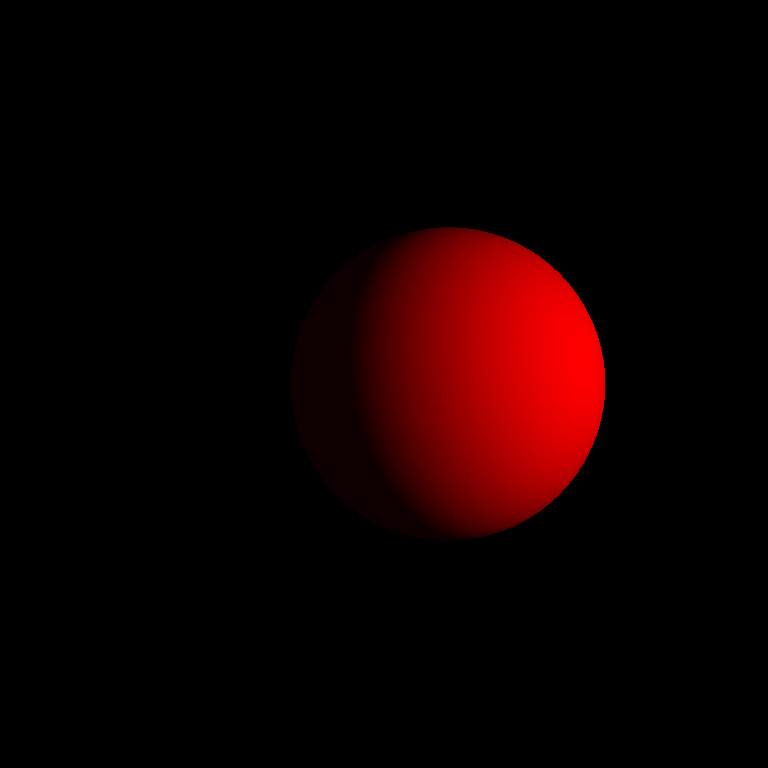
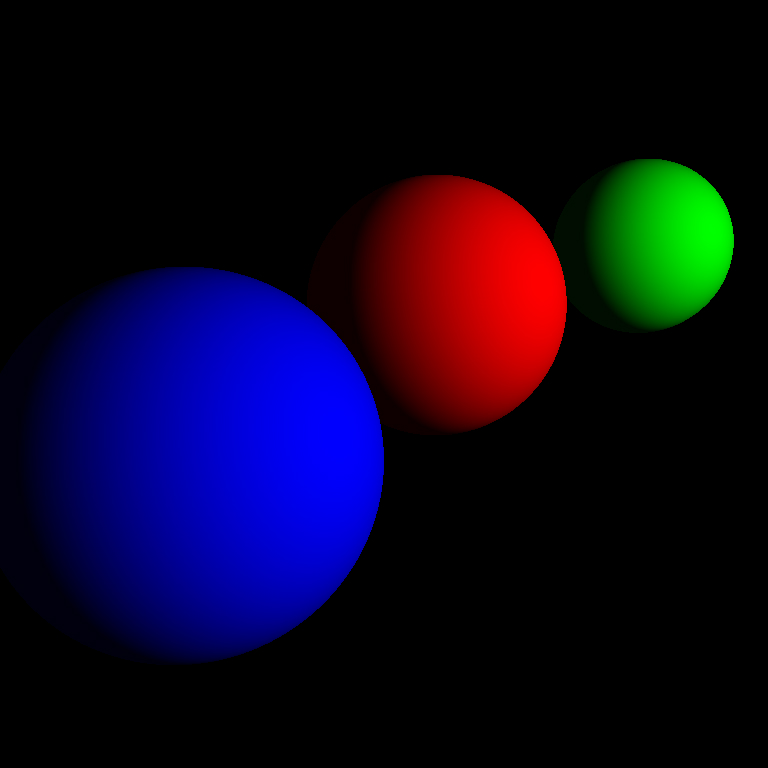
Multiple spheres on GPU
Added: Sphere UBO
Added: Spheres total uniform
Added: Surface struct to render colors (GPU)
Added: Sphere Surface (GPU)
Added: Surface Union (GPU)

diff --git a/source/render.cpp b/source/render.cpp
@@ -36,12 +36,23 @@ namespace render {
     GLuint RBO, FBO;
     static void genbuffers(const uint width, const uint height);
 
+    GLuint SphereUBO;
+
     namespace shader {
         GLuint program;
         static GLuint load(const char *path, GLenum type);
         static GLuint link(GLuint vertex, GLuint fragment);
         static void log(GLuint shader, GLenum status, GLenum type = 0);
     };
+
+    // Plain structs to store scene in GPU
+    namespace GPUbody {
+        struct Sphere {
+            float position[4];
+            float radius[4];
+            float color[4];
+        };
+    }
 }
 
 ///////////////////////////////////////////
@@ -249,6 +260,7 @@ void render::setup(const uint width, const uint height) {
     /// Link program ///
     render::shader::program = render::shader::link(vertex, fragment);
     render::shader::log(render::shader::program, GL_LINK_STATUS);
+    glUseProgram(render::shader::program);
 
     /// Generate buffers ///
     render::genbuffers(width, height);
@@ -267,6 +279,31 @@ void render::push(void) {
     };
 
     glBufferData(GL_ARRAY_BUFFER, sizeof(vertices), vertices, GL_STATIC_DRAW);
+
+    /// Body UBOs ///
+    constexpr int sphereTotal = 3;
+
+    GLuint location = glGetUniformLocation(render::shader::program, "sphereTotal");
+    glUniform1i(location, sphereTotal);
+
+    render::GPUbody::Sphere sphere[sphereTotal] = {
+        { { 2.0f, 3.0f, 30.0f, 1.0f }, { 5.0f }, { 1.0f, 0.0f, 0.0f, 1.0f } },
+        { { 15.0f, 8.0f, 45.0f, 1.0f }, { 5.0f }, { 0.0f, 1.0f, 0.0f, 1.0f } },
+        { {-5.0f, -2.0f, 20.0f, 5.0f }, { 5.0f }, { 0.0f, 0.0f, 1.0f, 1.0f } },
+    };
+
+    glGenBuffers(1, &render::SphereUBO);
+    glBindBuffer(GL_UNIFORM_BUFFER, render::SphereUBO);
+    glBufferData(GL_UNIFORM_BUFFER, sizeof(sphere), NULL, GL_STATIC_DRAW);
+    glBindBuffer(GL_UNIFORM_BUFFER, 0);
+
+    GLuint blockIndex = glGetUniformBlockIndex(render::shader::program, "Spheres");
+    glUniformBlockBinding(render::shader::program, blockIndex, 0);
+    glBindBufferRange(GL_UNIFORM_BUFFER, 0, render::SphereUBO, 0, sizeof(sphere));
+
+    glBindBuffer(GL_UNIFORM_BUFFER, render::SphereUBO);
+    glBufferSubData(GL_UNIFORM_BUFFER, 0, sizeof(sphere), sphere);
+    glBindBuffer(GL_UNIFORM_BUFFER, 0);
 }
 
 void render::GPU(unsigned char *image, const uint width, const uint height) {

diff --git a/source/include/body.h b/source/include/body.h
@@ -25,7 +25,6 @@ namespace Body {
     struct Surface {
         float SD;
         float3 color;
-        //friend bool operator<(const Surface &lhs, const Surface &rhs);
     };
 
     struct Base : Object::Base {
